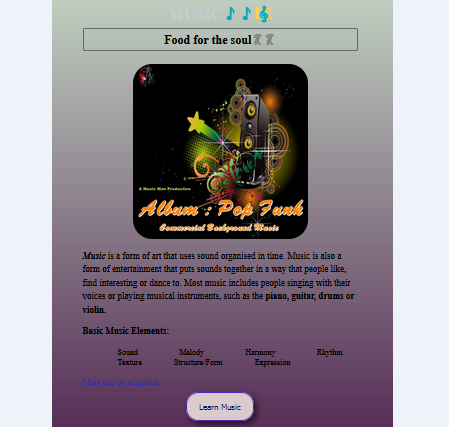
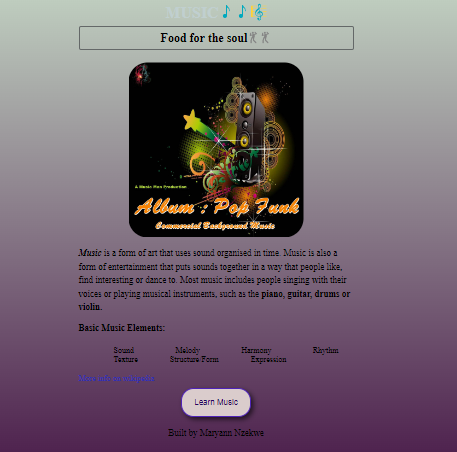
Fixed the images

diff --git a/index.html b/index.html
@@ -85,7 +85,7 @@
           <img src="images/weather.PNG" class="img-fluid" alt="" />
         </div>
       </div>
-      <div class="row">
+      <div class="row mb-5">
         <div class="col d-none d-lg-block">
           <img src="images/music.PNG" class="img-fluid" alt="" />
         </div>
